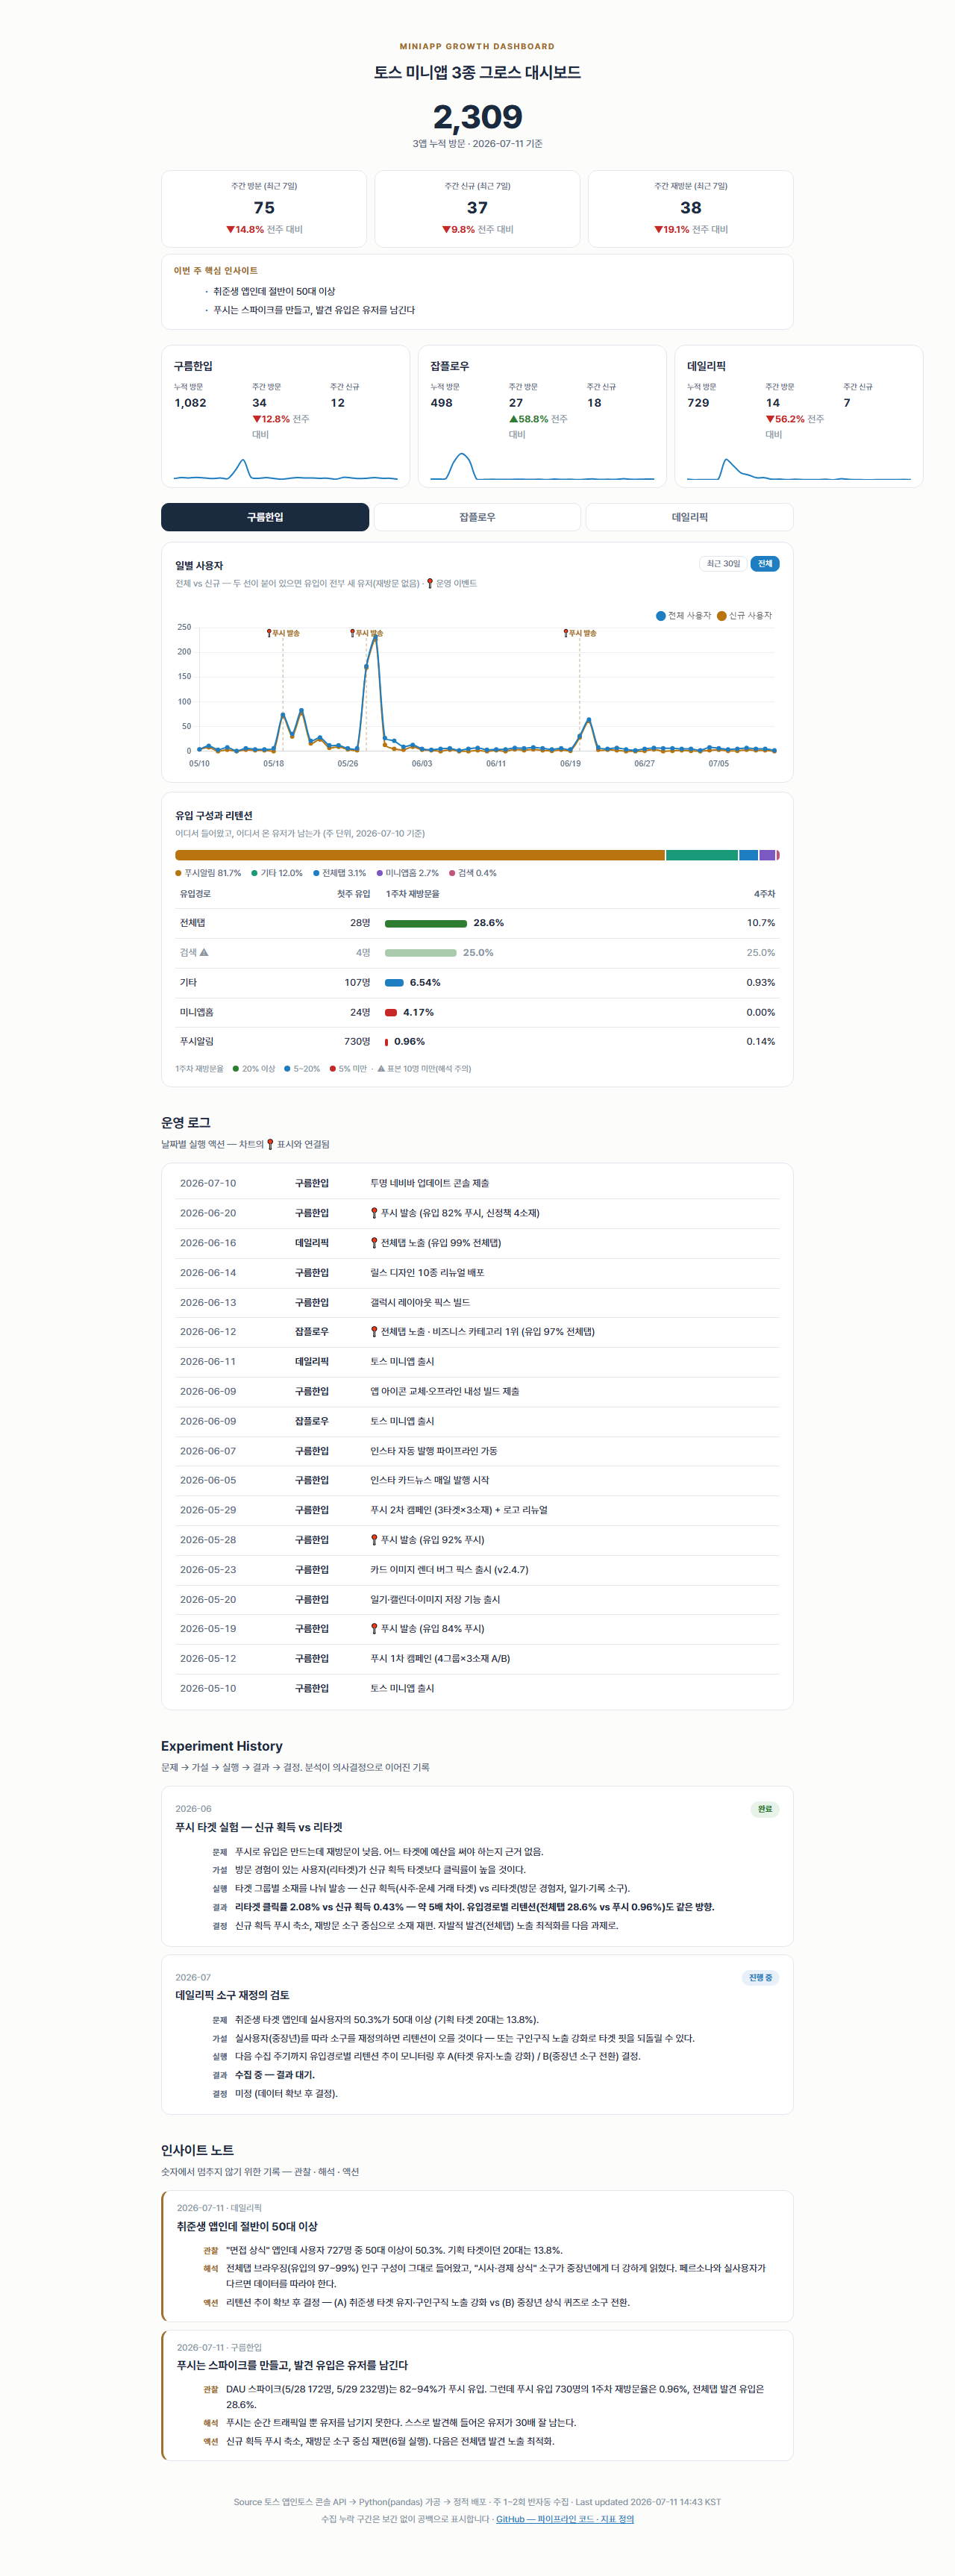
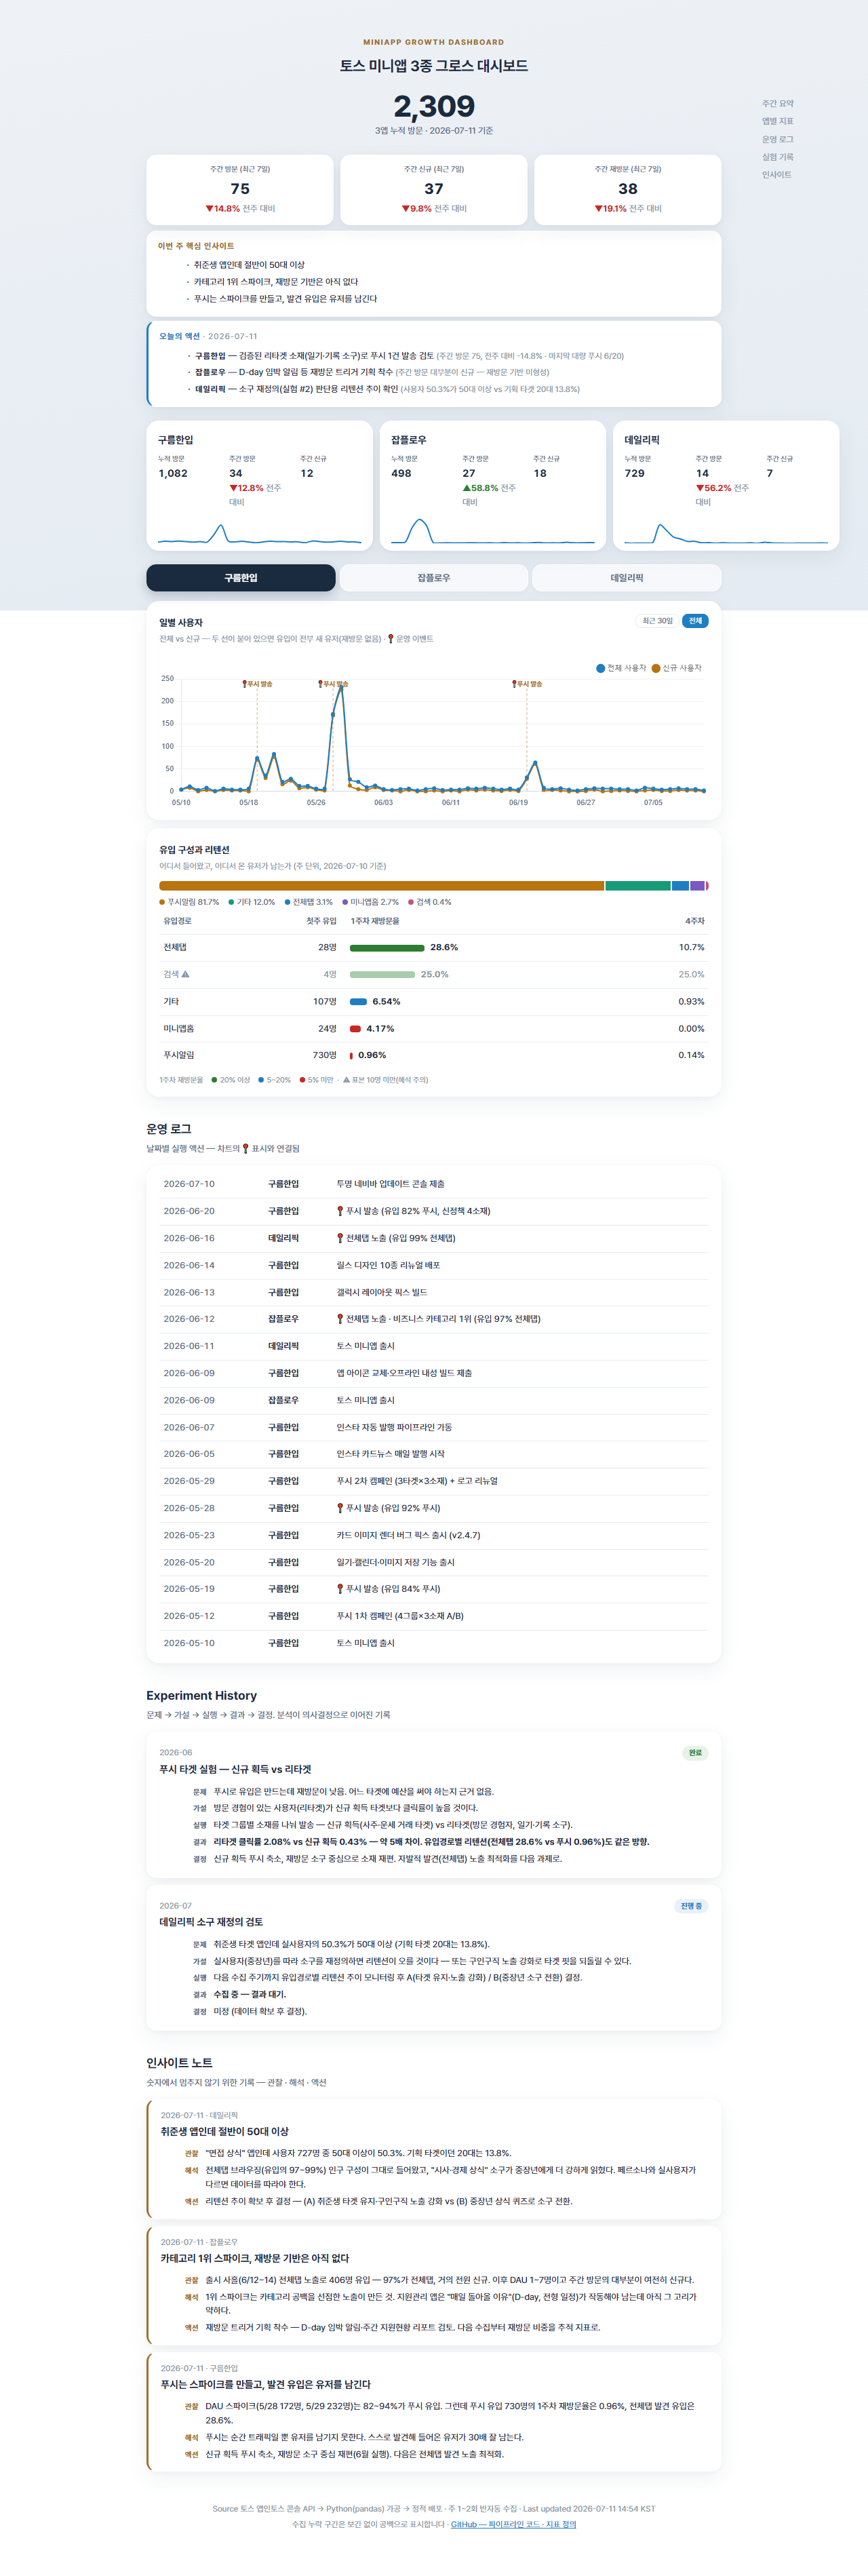
feat: 톤 리스타일(블루그레이·소프트 섀도) + 오늘의 액션 + 잡플로우 인사이트 + 일일 자동 수집 스케줄러
- 매일 08:53 작업 스케줄러 → claude 헤드리스 수집 (테스트 통과)
- 수집 봇 git add 경로 제한 (-A 금지, 작업분 오염 방지)
- 데스크탑 앵커 네비, 오늘의 액션 카드(수집 봇이 매일 갱신)

diff --git a/index.html b/index.html
@@ -110,11 +110,19 @@
   footer { text-align:center; font-size:12px; color:var(--muted); margin-top:44px; line-height:1.9; }
   footer a { color:var(--s1); }
   .err { text-align:center; color:var(--ink2); padding:40px 0; }
+  .anchor { display:none; }
+  @media (min-width:1260px) {
+    .anchor { display:block; position:fixed; top:140px; left:calc(50% + 470px); width:120px;
+              font-size:12.5px; line-height:2.1; }
+    .anchor a { display:block; color:var(--muted); text-decoration:none; padding-left:12px;
+                border-left:2px solid transparent; }
+    .anchor a:hover { color:var(--ink); border-left-color:var(--s1); }
+  }
 </style>
 </head>
 <body>
 <div class="wrap">
-  <header>
+  <header id="top">
     <div class="eyebrow">MINIAPP GROWTH DASHBOARD</div>
     <h1>토스 미니앱 3종 그로스 대시보드</h1>
     <div class="headline-num" id="hNum">—</div>
@@ -126,12 +134,22 @@
     <b>이번 주 핵심 인사이트</b>
     <ul id="weeklyList"></ul>
   </div>
+  <div class="weekly-insights" id="todayBox" hidden style="border-left:3px solid var(--s1);">
+    <b style="color:var(--s1)">오늘의 액션 <span id="todayDate" style="font-weight:400;color:var(--muted)"></span></b>
+    <ul id="todayList"></ul>
+  </div>
+
+  <nav class="anchor">
+    <a href="#top">주간 요약</a><a href="#apps">앱별 지표</a><a href="#ops">운영 로그</a>
+    <a href="#exph">실험 기록</a><a href="#insight">인사이트</a>
+  </nav>
 
   <div class="cards" id="cards"></div>
-  <div class="tabs" id="tabs" role="tablist"></div>
+  <div class="tabs" id="tabs" role="tablist" style="scroll-margin-top:20px;"></div>
+  <span id="apps"></span>
   <div id="panels"></div>
 
-  <section>
+  <section id="ops">
     <h2>운영 로그</h2>
     <div class="desc">날짜별 실행 액션 — 차트의 📍 표시와 연결됨</div>
     <div class="box" style="padding:8px 18px;">
@@ -139,13 +157,13 @@
     </div>
   </section>
 
-  <section>
+  <section id="exph">
     <h2>Experiment History</h2>
     <div class="desc">문제 → 가설 → 실행 → 결과 → 결정. 분석이 의사결정으로 이어진 기록</div>
     <div id="exps"></div>
   </section>
 
-  <section>
+  <section id="insight">
     <h2>인사이트 노트</h2>
     <div class="desc">숫자에서 멈추지 않기 위한 기록 — 관찰 · 해석 · 액션</div>
     <div id="notes"></div>
@@ -280,6 +298,16 @@ fetch('data/dashboard.json').then(r => r.json()).then(d => {
     document.getElementById('weekly').hidden = false;
     document.getElementById('weeklyList').innerHTML =
       d.notes.slice(0, 3).map(n => `<li>${n.title}</li>`).join('');
+  }
+
+  if (d.today_actions?.length) {
+    const latestDate = d.today_actions.reduce((m, a) => a.date > m ? a.date : m, '');
+    document.getElementById('todayBox').hidden = false;
+    document.getElementById('todayDate').textContent = '· ' + latestDate;
+    document.getElementById('todayList').innerHTML = d.today_actions
+      .filter(a => a.date === latestDate)
+      .map(a => `<li><b style="color:var(--ink)">${d.apps[a.app]?.name || a.app}</b> — ${a.action}` +
+        (a.basis ? ` <span style="color:var(--muted);font-size:12px">(${a.basis})</span>` : '') + `</li>`).join('');
   }
 
   const cards = document.getElementById('cards'), tabs = document.getElementById('tabs'),

diff --git a/tests/test_build.py b/tests/test_build.py
@@ -77,6 +77,21 @@ def test_build_includes_events_and_experiments(tmp_path):
     assert d["apps"]["gureum"]["events"] == [{"date": "2026-07-10", "label": "푸시 발송"}]
     assert d["experiments"][0]["status"] == "완료"
 
+def test_today_actions_loaded_and_validated(tmp_path):
+    raw = tmp_path / "raw"; (raw / "gureum").mkdir(parents=True)
+    (raw / "gureum" / "dau-2026-07-11.json").write_text(json.dumps({
+        "app": "gureum", "metric": "dau", "fetched_at": "2026-07-11T00:00:00+09:00",
+        "rows": [{"date": "2026-07-10", "users": 12}]}), encoding="utf-8")
+    (tmp_path / "ta.json").write_text(json.dumps(
+        [{"app": "gureum", "date": "2026-07-11", "action": "푸시 검토"}]), encoding="utf-8")
+    d = build(raw, tmp_path / "notes", tmp_path / "dashboard.json", tmp_path / "csv",
+              today_actions_path=tmp_path / "ta.json")
+    assert d["today_actions"][0]["action"] == "푸시 검토"
+    (tmp_path / "bad.json").write_text(json.dumps([{"app": "gureum"}]), encoding="utf-8")
+    with pytest.raises(SchemaError, match="today_actions"):
+        build(raw, tmp_path / "notes", tmp_path / "dashboard.json", tmp_path / "csv",
+              today_actions_path=tmp_path / "bad.json")
+
 def test_experiments_missing_key_fails(tmp_path):
     raw = tmp_path / "raw"; (raw / "gureum").mkdir(parents=True)
     (raw / "gureum" / "dau-2026-07-11.json").write_text(json.dumps({

diff --git a/scripts/collect-prompt.md b/scripts/collect-prompt.md
@@ -8,22 +8,27 @@
    - workspaceId `39557` / 구름한입 `31999` / 잡플로우 `39989` / 데일리픽 `40567`
    - 도구: `mcp__apps-in-toss-console__dashboard_dau` (timeUnit DAY)
 2. 응답의 au/newAu를 envelope 형식으로 저장:
-   `C:\Users\T\Desktop\portfolio\app-insight\data\raw\{app}\dau-{오늘날짜}.json`
+   `C:\Users\T\Desktop\portfolio\app-insight\data\raw\{app}\dau-{오늘날짜}-auto.json` (같은 날 재실행 시 같은 파일 덮어쓰기 OK)
    - app 폴더명: gureum / jobflow / dailypick
    - 형식은 기존 파일(`dau-2026-07-11b.json`) 참고: `{"app","metric":"dau","fetched_at","range","rows":[{"date","users","new_users"}],"source":{"note"}}`
    - 콘솔 응답에 없는 날짜는 절대 0으로 만들지 말 것 (결측 유지). 당일 부분 집계는 그대로 저장 (다음날 upsert로 확정됨).
 3. 일요일이면 리텐션도 갱신: `dashboard_retention`(dimension REFERRER, timeUnit WEEK, 출시일~오늘)을 3앱 조회해
    `retention_ref-{오늘}.json`으로 저장 (기존 파일 형식 참고, isCompletedData=true 구간만).
-4. 빌드·검증·배포:
+4. 오늘의 액션 생성: 수집한 지표를 보고 `data/today_actions.json`을 **오늘 날짜로 전체 교체**한다.
+   - 형식: `[{"app","date":"오늘","action":"한 줄","basis":"근거 지표 한 줄"}]` — 앱 3개 각 1줄.
+   - 규칙: 실제 지표 변화(주간 방문 증감, 신규 비중, 마지막 푸시로부터 경과)에서만 도출. 과장·날조 금지.
+     구름한입은 푸시/인스타 리듬, 잡플로우는 재방문 트리거, 데일리픽은 소구 재정의(실험 #2) 관점 우선.
+5. 빌드·검증·배포 — **git add는 아래 경로만. 절대 `-A` 금지** (사람 작업 중인 파일이 딸려 들어감):
    ```
    cd C:\Users\T\Desktop\portfolio\app-insight
    python -m pytest        # 실패 시 여기서 중단
    python scripts/build_dashboard.py
-   git add -A
+   git add data/raw data/dashboard.json data/csv data/today_actions.json
    git commit -m "data: 자동 수집 {오늘날짜}"
    git push
    ```
-5. 성공하면 아무 알림 없이 종료.
+   - 커밋할 게 없으면(변화 없음) 조용히 종료.
+6. 성공하면 아무 알림 없이 종료.
 
 ## 실패 시 (MCP 인증 만료 · 조회 에러 · 테스트 실패)
 
@@ -35,5 +40,6 @@
 
 ## 금지
 
-- 인사이트 노트·실험·이벤트 파일을 새로 만들지 말 것 (그건 사람이 쓴다).
-- 스키마 확장·코드 수정 금지. 수집과 빌드만.
+- 인사이트 노트(notes/)·실험(experiments.json)·이벤트(events.json)를 만들거나 고치지 말 것 (그건 사람이 쓴다). today_actions.json만 허용.
+- 스키마 확장·코드 수정 금지. 수집·오늘의 액션·빌드만.
+- `git add -A` / `git add .` 금지 — 위 명시 경로만.